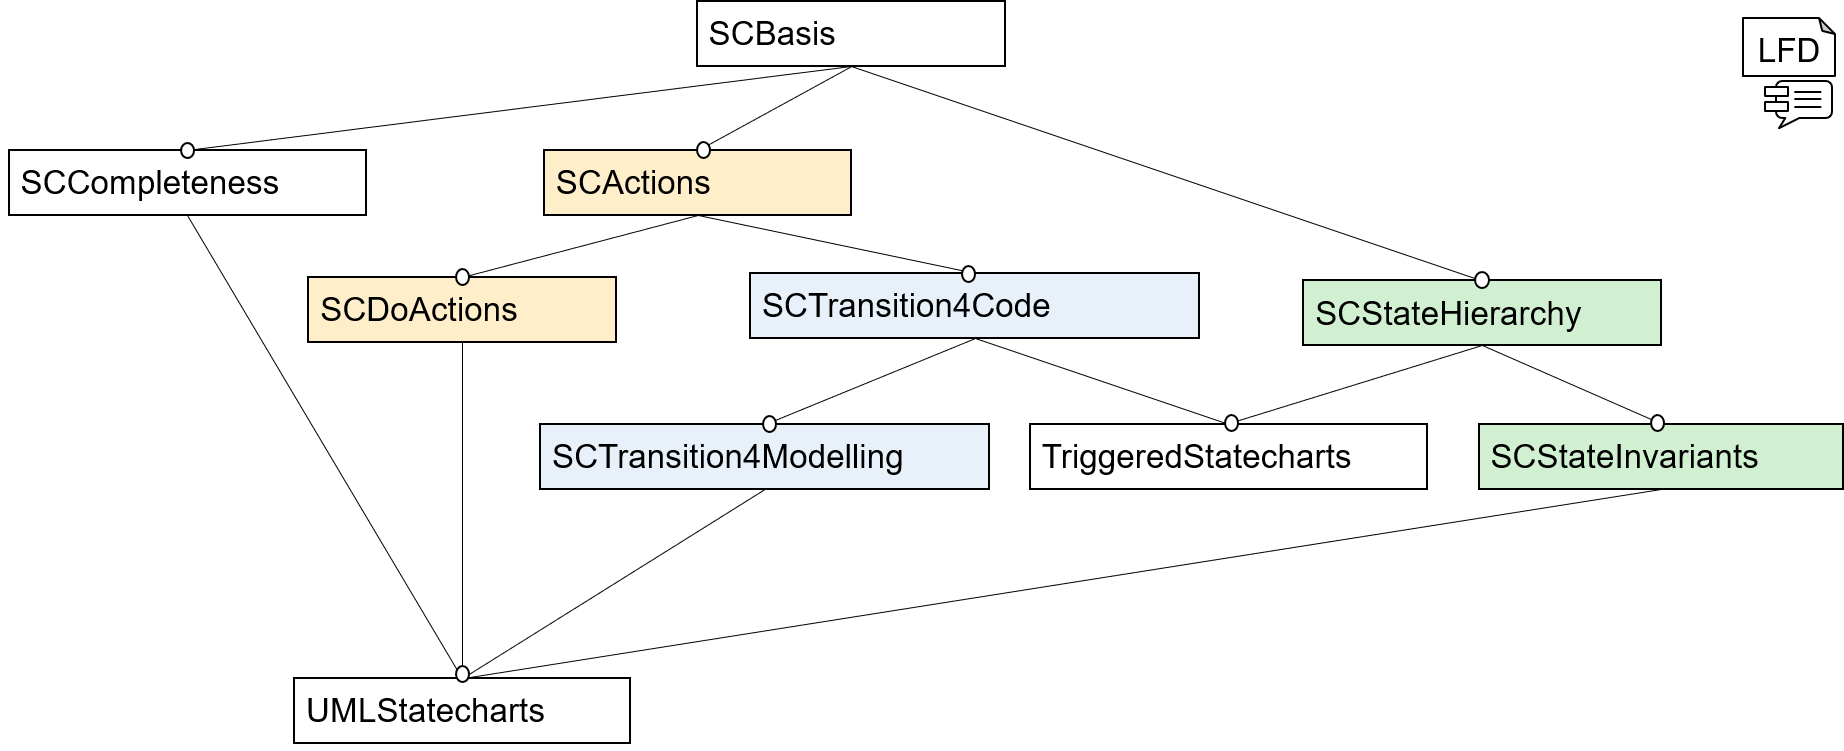
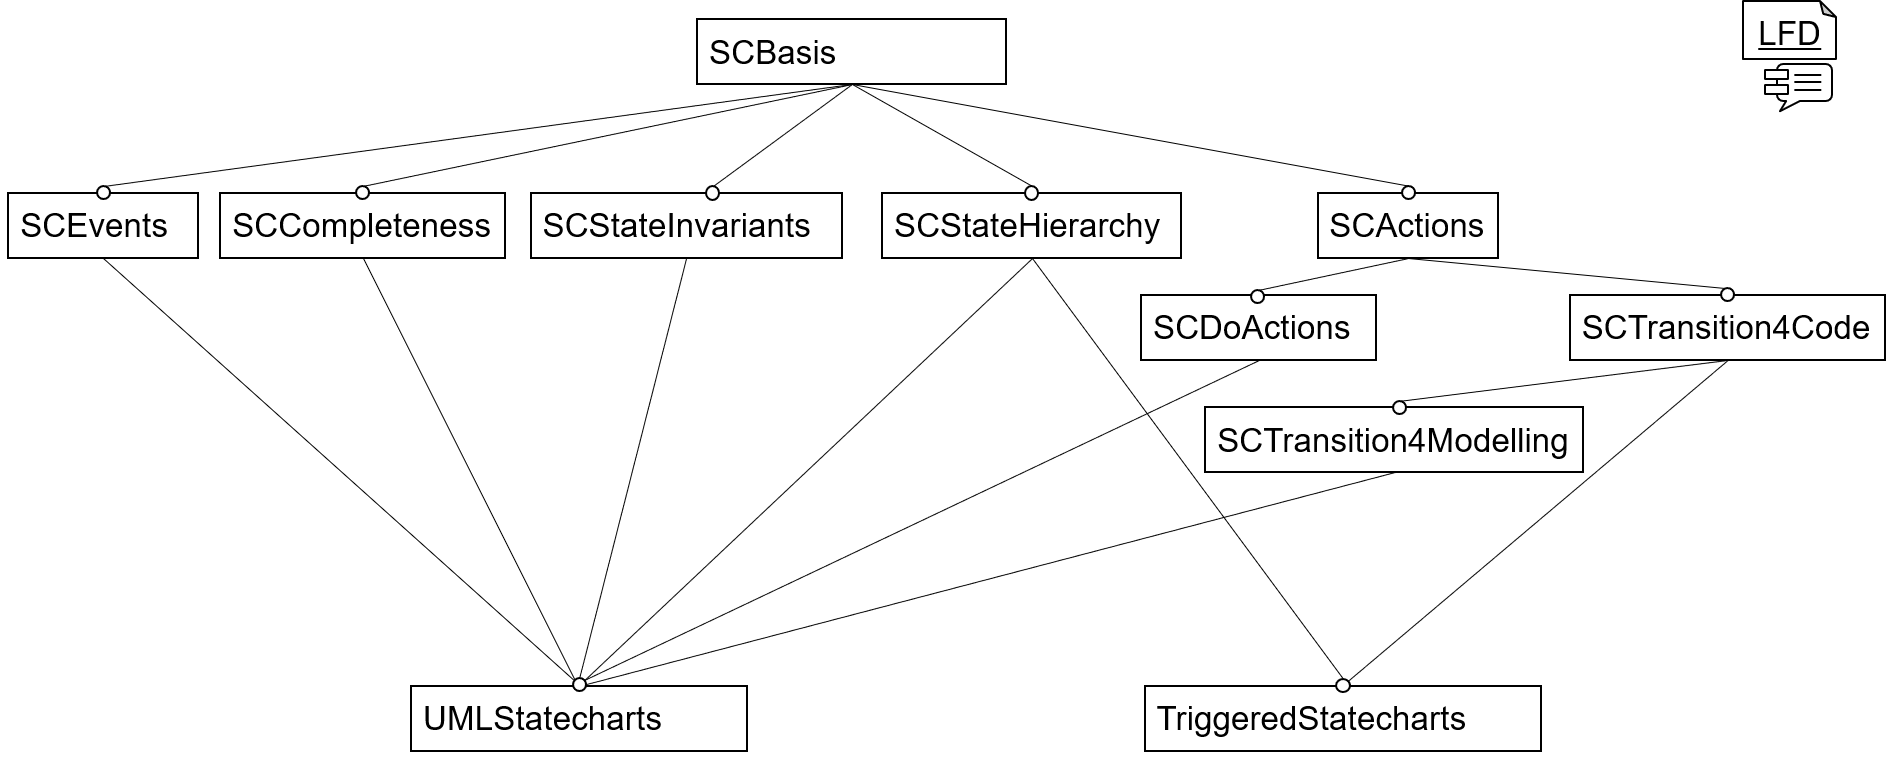
- restructured invariants - adjusted language description

diff --git a/src/main/java/de/monticore/prettyprint/SCEventsPrettyPrinter.java b/src/main/java/de/monticore/prettyprint/SCEventsPrettyPrinter.java
@@ -1,11 +1,8 @@
 /* (c) https://github.com/MontiCore/monticore */
 package de.monticore.prettyprint;
 
-import de.monticore.scactions._ast.ASTSCEntryAction;
-import de.monticore.scactions._ast.ASTSCExitAction;
-import de.monticore.scactions._visitor.SCActionsVisitor;
-import de.monticore.scevents._ast.ASTSCEventDef;
-import de.monticore.scevents._ast.ASTSCEventParameter;
+import de.monticore.scevents._ast.ASTSCFuncEventDef;
+import de.monticore.scevents._ast.ASTSCFuncEventParameter;
 import de.monticore.scevents._visitor.SCEventsVisitor;
 
 public class SCEventsPrettyPrinter
@@ -17,21 +14,24 @@ public class SCEventsPrettyPrinter
     this.printer = printer;
   }
 
-  @Override public void handle(ASTSCEventDef node) {
+  
+  @Override public void handle(ASTSCFuncEventDef node) {
     getPrinter().print("event ");
-    node.getMCReturnType().accept(getRealThis());
+    if(node.isPresentMCReturnType()) {
+      node.getMCReturnType().accept(getRealThis());
+    }
     getPrinter().print(" " + node.getName());
     getPrinter().print("(");
     String comma = "";
-    for(ASTSCEventParameter p : node.getSCEventParameterList()) {
+    for(ASTSCFuncEventParameter p : node.getParamList()) {
       getPrinter().print(comma);
       p.accept(getRealThis());
       comma = ", ";
     }
-    getPrinter().println(")");
+    getPrinter().println(");");
   }
   
-  @Override public void handle(ASTSCEventParameter node) {
+  @Override public void handle(ASTSCFuncEventParameter node) {
     node.getMCType().accept(getRealThis());
     getPrinter().print(" " + node.getName());
   }

diff --git a/src/test/java/de/monticore/symboltable/ResolvingTest.java b/src/test/java/de/monticore/symboltable/ResolvingTest.java
@@ -1,0 +1,40 @@
+/* (c) https://github.com/MontiCore/monticore */
+package de.monticore.symboltable;
+
+import de.monticore.StatechartsCLI;
+import de.monticore.scbasis._ast.ASTSCArtifact;
+import de.monticore.scbasis._symboltable.SCStateSymbol;
+import de.monticore.umlstatecharts.UMLStatechartsMill;
+import de.monticore.umlstatecharts._symboltable.IUMLStatechartsArtifactScope;
+import de.se_rwth.commons.logging.Log;
+import de.se_rwth.commons.logging.LogStub;
+import org.junit.Before;
+import org.junit.BeforeClass;
+import org.junit.Test;
+
+import java.util.Optional;
+
+import static org.junit.Assert.assertTrue;
+
+public class ResolvingTest {
+  
+  @BeforeClass
+  public static void beforeClass() throws Exception {
+    LogStub.initPlusLog();
+  }
+  
+  @Before
+  public void setUp() throws Exception {
+    Log.clearFindings();
+    UMLStatechartsMill.uMLStatechartsGlobalScope().clear();
+  }
+  
+  @Test
+  public void testResolvingState() {
+    StatechartsCLI tool = new StatechartsCLI();
+    ASTSCArtifact ast = tool.parseFile("src/test/resources/valid/Test.sc");
+    IUMLStatechartsArtifactScope st = tool.createSymbolTable(ast);
+    Optional<SCStateSymbol> stateSymbol = st.resolveSCState("Parking");
+    assertTrue("Could not resolve state Parking", stateSymbol.isPresent());
+  }
+}

diff --git a/src/test/java/de/monticore/parser/SCStateInvariantsParserPPTest.java b/src/test/java/de/monticore/parser/SCStateInvariantsParserPPTest.java
@@ -3,8 +3,7 @@ package de.monticore.parser;
 
 import de.monticore.parser.util.TestUtils;
 import de.monticore.prettyprint.UMLStatechartsPrettyPrinterDelegator;
-import de.monticore.scbasis._ast.ASTSCArtifact;
-import de.monticore.scstateinvariants._ast.ASTSCStateInvariant;
+import de.monticore.scstateinvariants._ast.ASTSCInvState;
 import de.monticore.umlstatecharts._parser.UMLStatechartsParser;
 import de.se_rwth.commons.logging.Log;
 import org.junit.Before;
@@ -31,12 +30,12 @@ public class SCStateInvariantsParserPPTest {
 
   @Test
   public void testSCStateInvariant() throws IOException {
-    Optional<ASTSCStateInvariant> ast = parser.parse_StringSCStateInvariant(" [ true && !false]");
+    Optional<ASTSCInvState> ast = parser.parse_StringSCInvState("state Foo [ true && !false];");
     TestUtils.check(parser);
     assertTrue("No ast present", ast.isPresent());
 
     String pp = new UMLStatechartsPrettyPrinterDelegator().prettyprint(ast.get());
-    Optional<ASTSCStateInvariant> astPP = parser.parse_StringSCStateInvariant(pp);
+    Optional<ASTSCInvState> astPP = parser.parse_StringSCInvState(pp);
     assertTrue("Failed to parse from pp: " + pp, astPP.isPresent());
     assertTrue("AST not equal after pp: " + pp, astPP.get().deepEquals(ast.get()));
   }

diff --git a/src/main/java/de/monticore/prettyprint/SCStateInvariantsPrettyPrinter.java b/src/main/java/de/monticore/prettyprint/SCStateInvariantsPrettyPrinter.java
@@ -1,7 +1,7 @@
 /* (c) https://github.com/MontiCore/monticore */
 package de.monticore.prettyprint;
 
-import de.monticore.scstateinvariants._ast.ASTSCStateInvariant;
+import de.monticore.scstateinvariants._ast.ASTSCInvState;
 import de.monticore.scstateinvariants._visitor.SCStateInvariantsVisitor;
 
 public class SCStateInvariantsPrettyPrinter
@@ -14,10 +14,14 @@ public class SCStateInvariantsPrettyPrinter
   }
 
   @Override
-  public void handle(ASTSCStateInvariant node) {
+  public void handle(ASTSCInvState node) {
+    node.getSCModifier().accept(getRealThis());
+    getPrinter().print(" state " + node.getName());
     getPrinter().print(" [");
     node.getExpression().accept(getRealThis());
     getPrinter().print("] ");
+    node.getSCSBody().accept(getRealThis());
+    getPrinter().print(";");
   }
 
   @Override

diff --git a/src/main/java/de/monticore/scbasis/_symboltable/ISCBasisScope.java b/src/main/java/de/monticore/scbasis/_symboltable/ISCBasisScope.java
@@ -1,0 +1,19 @@
+/* (c) https://github.com/MontiCore/monticore */
+package de.monticore.scbasis._symboltable;
+
+import de.monticore.symboltable.modifiers.AccessModifier;
+
+import java.util.List;
+import java.util.function.Predicate;
+
+public interface ISCBasisScope extends ISCBasisScopeTOP{
+  
+  default List<SCStateSymbol> continueAsSCStateSubScope (boolean foundSymbols,String name, AccessModifier modifier,
+      Predicate<SCStateSymbol> predicate)  {
+    
+    setSCStateSymbolsAlreadyResolved(false);
+    final String remainingSymbolName = getRemainingNameForResolveDown(name);
+    return this.resolveSCStateDownMany(foundSymbols, remainingSymbolName, modifier, predicate);
+  }
+  
+}

diff --git a/src/test/java/de/monticore/parser/SCDemoParseTest.java b/src/test/java/de/monticore/parser/SCDemoParseTest.java
@@ -73,9 +73,7 @@ public class SCDemoParseTest {
   
   @Test
   public void testState3() throws IOException {
-    parser.parse_StringSCState("state Opened {"
-        + "  [!Locked]"
-        + "};");
+    parser.parse_StringSCState("state Opened  [!Locked] {} ;");
     assertFalse(parser.hasErrors());
   }
   

diff --git a/src/main/grammars/de/monticore/Statecharts.md b/src/main/grammars/de/monticore/Statecharts.md
@@ -52,18 +52,17 @@ and four transitions (each terminated by `;`).
 - *Expressions* can be used for *conditions*, and *statements* respectively blocks `{...}` 
   for the *actions*.
 
-Further langage concepts of the UML Statechart are shown in the following example, where state 
+Further language concepts of the UML Statechart are shown in the following example, where state 
 `EngineRunning` has two substates as well as *entry*, *exit* *actions* and an *invariant*:
 
 <a name="example2"></a>
 ``` 
 statechart Car {
   initial state EngineOff;
-  state EngineRunning {      // state with substates
-    [!fuelIsEmpty]           // state invariant (Boolean expression)
-    entry / {lightsOn(); }   // entry / exit action
+  state EngineRunning [!fuelIsEmpty] {  // state with substates and state invariant (Boolean expression)
+    entry / {lightsOn(); }              // entry / exit action
     exit  / {lightsOff();}
-    initial state Parking;   // substates
+    initial state Parking;              // substates
     state Driving;
   };
 }
@@ -75,17 +74,17 @@ and can be extended by any own interesting language constructs
 
  ## UMLStatecharts
 
- The goal of the `UMLStatecharts` is to provide a language for handling hierarchical StateCharts 
- in the spirit of modeling language for software: It's triggers are usually function calls 
+ The goal of the `UMLStatecharts` is to provide a language for handling hierarchical Statecharts 
+ in the spirit of modeling language for software: Its triggers are usually function calls 
  received either as a normal method call or also as a remote procedure call. 
  Its body contains procedural actions. `UMLStatecharts` are equipped with various enhancements, 
  such as hierarchy, entry and exit states, conditions on the transitions or invariants.
- However, they own purpose do not provide the full original Statechart language, because 
+ However, they on purpose do not provide the full original Statechart language, because 
  in an object oriented development process, neither history, nor AND-states are really needed.
  See [Rum16] for a detailed discussion. 
 
  The `UMLStatecharts` language combines the language components `SCActions`, `SCDoActions`, `SCStateHierarchy`, 
- `SCStateInvariants`, `SCCompleteness`, `SCTransitions4Modelling`, `CommonExpressions` and
+ `SCStateInvariants`, `SCCompleteness`, `SCTransitions4Modelling`, `CommonExpressions`, SCEvents, and
  `MCCommonStatements`. The teasers above conform to this language.
  
  ## TriggeredStatecharts
@@ -142,40 +141,45 @@ with extension points for their bodies (`SCSBody` and `SCTBody`) are provided.
 
 <!-- ### Symboltable -->
 
-### Symboltable
+## Symboltable
 
-## Symbol kinds used by the SC language (importable or subclassed):
+### Symbol kinds used by the SC language (importable or subclassed):
 The SC language uses symbols of kind `TypeSymbol`, `VariableSymbol` as well as 
 the symbols that are used by these symbols (e.g. `FunctionSymbol` 
 is used by `TypeSymbol`.
 
-## Symbol kinds defined by the SD language (exported):
-The SC language defines the symbol kinds `StatechartSymbol` and `SCStateSynbol`.      
+Furthermore, the SC language reuses the `DiagramSymbol` of the BasicSymbols language component for named Statecharts.
+
+
+### Symbol kinds defined by the SD language (exported):
+The SC language defines the symbol kinds `SCStateSynbol` and `SCEventDefSymbol`.      
 - A `SCStateSymbol` is defined as (and has no additional body):
   ```
   class SCStateSymbol {
       String name;
   }
   ```
-- For each SC there is also a `StatechartSymbol` defined as:
+- The UMLStatechart language also exports the kind `SCEventDefSymbol` defined as:
   ```
-  class StatechartSymbol {
+  class SCEventDefSymbol {
       String name;
   }
   ```
   
-The SC language does not reuse the `DiagramSymbol` of the BasicSymbols language component as the name of a statechart is optional which is not supported by the diagram symbol.
+  This kind of symbols are refered to by stimuli that do not refer to functions 
+  and thus do not have arguments and return types.
+  Symbols of this kind are not produced by Statecharts but instead used by the events of transitions.
 
-## Symbols imported by SC models:
+### Symbols imported by SC models:
 * SCs import `VariableSymbols`, `FunctionSymbols` and `TypeSymbols`. 
 These imported symbol can be used within action or transition bodies. 
-Furthermore, events of transitions can use FunctionSymbols, invariants and pre-/post-conditions can
-use VariableSymbols and FunctionSymbols.
+Furthermore, events of transitions can use `FunctionSymbols` or `SCEventDefSymbols`,
+ invariants and pre-/post-conditions can use `VariableSymbols` and `FunctionSymbols`.
 
-## Symbols exported by SC models:
+### Symbols exported by SC models:
 * SC models export `SCStateSymbols`. 
 For each state defined in an SC, the SC exports a corresponding `SCStateSymbol`. 
-* Each SC exports at most one `StatechartSymbol` corresponding to the Statechart.
+* Each SC exports at most one `DiagramSymbol` corresponding to the Statechart.
 - The artifact scope of an SC "Door.sc" is stored in "Door.scsym".
   Structure:
   ```
@@ -195,7 +199,7 @@ For each state defined in an SC, the SC exports a corresponding `SCStateSymbol`.
         "name": "Locked"
       },
       {
-        "kind": "de.monticore.scbasis._symboltable.StatechartSymbol",
+        "kind": "de.monticore.symbols.basicsymbols._symboltable.DiagramSymbol",
         "name": "Door"
       }
     ]

diff --git a/CHANGELOG.md b/CHANGELOG.md
@@ -2,8 +2,11 @@
 to be released  
 based on MontiCore 6.5.0-SNAPSHOT
 
+* StateInvariants no longer extends StateHierarchy to ensure invariants can be used without hierarchical states
+    * SCInvState replaced SCStateInvariant
+    * changed the concrete syntax from `state Foo { [a>b] };` to `state Foo [a>b] { };`  
 * introduced grammar `SCEvents` for events definitions
-  * example: `event String foo(int a)` 
+  * example: `event String foo(int a)`
   * `UMLStatecharts` now supports events definitions by integrating this grammar
 * Transitions now directly point to states via `Name@SCState`
 * `Statechart` nonterminal divided into `NamedStatechart` and `UnnamedStatechart`, which both implement the newly created interface nonterminal `Statechart`
